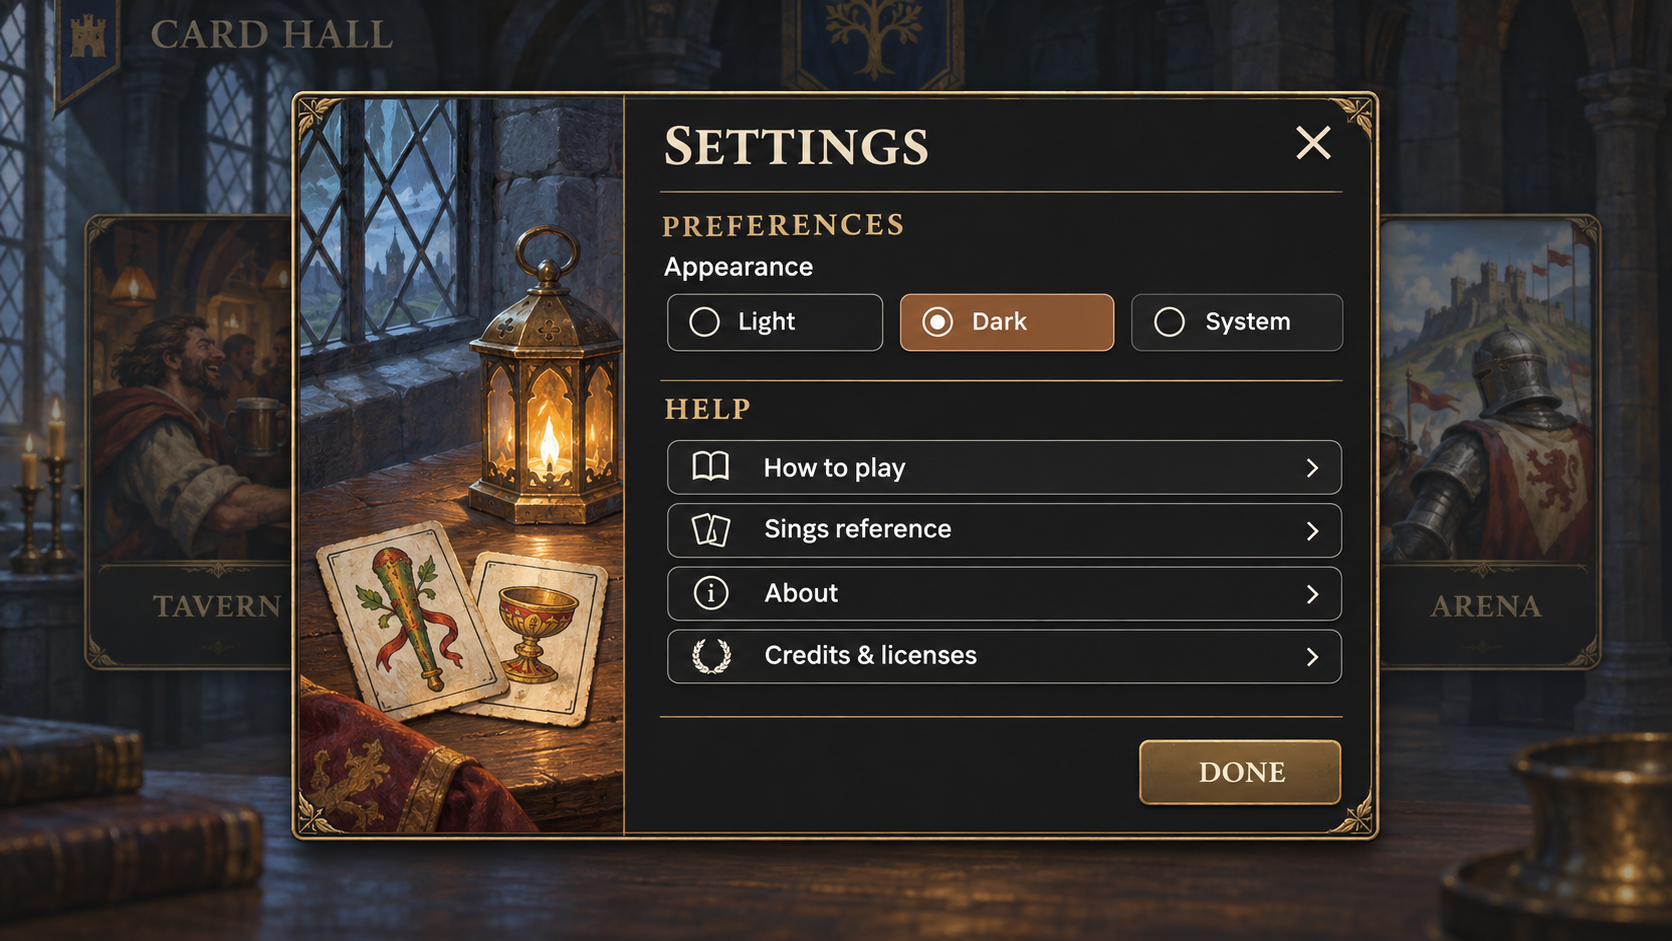
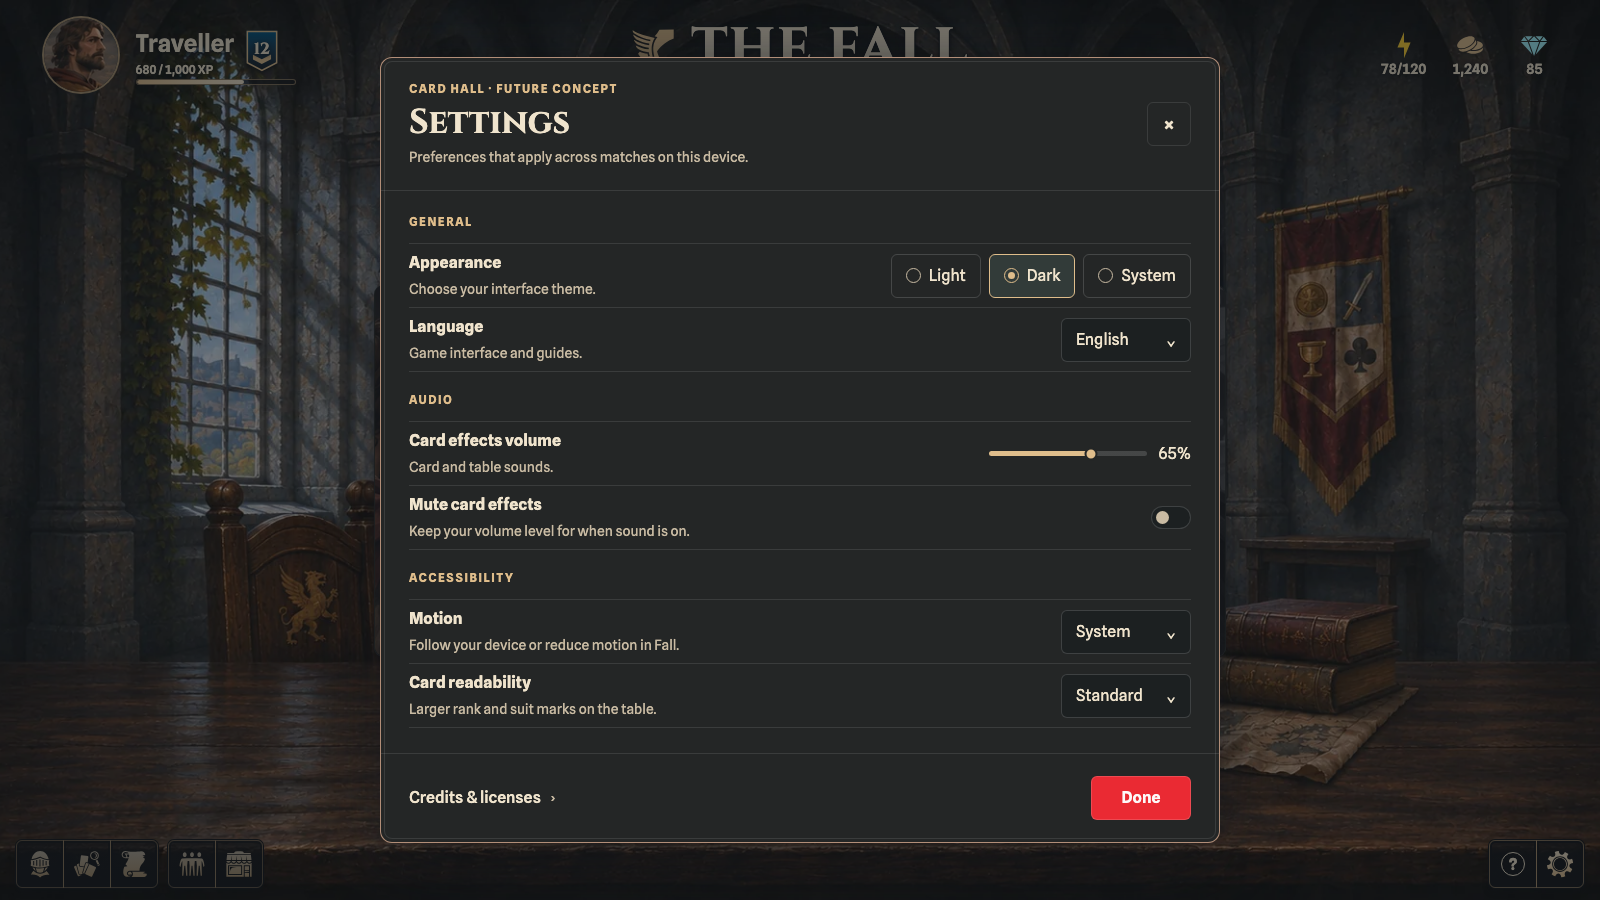
[GHI#104] Rebuild settings studies over the existing Card Hall

diff --git a/docs/design/settings/README.md b/docs/design/settings/README.md
@@ -1,51 +1,63 @@
 # Card Hall Settings
 
-Design exploration for [issue #104](https://github.com/Donkijote/fall/issues/104). The next pass can implement and test the selected design.
+Design draft for [issue #104](https://github.com/Donkijote/fall/issues/104). Settings owns persistent player preferences. Help owns rules and lookups.
 
-## Reference study
+## Mockups
 
-Reviewed the 15 stills and sampled the 7.65-second Frostpunk transition at four frames per second. The source captures live in the local `inspirations/settings` folder. Motion observations apply to the Frostpunk clip.
+All three images were captured at 1600 × 900 over the existing Card Hall on port 3000. The study panels were composed in the browser for these captures. The Hall painting, activity cards, HUD, emblem, and typography come from the running project. Settings adds a scrim over the Hall, while Help leaves the Hall unobscured. The original artwork and app code are intact.
 
-| Game | Observed layout and interaction cues | Implication for Fall |
+| Study | What it shows |
+| --- | --- |
+| [Simplified Settings](settings-simple.png) | The recommended #104 release layout. One Appearance control with immediate persistence, a small Credits & licenses link, and Done. |
+| [Detailed Settings](settings-detailed.png) | The same modal after enough preferences exist to justify General, Audio, and Accessibility sections. Controls and values in this image illustrate future states. |
+| [Hub Help](hub-help.png) | A Help entry next to the gear, in the slot currently occupied by the disabled Messages shortcut. The open panel links to the rules and Sings reference. |
+
+## Game reference study
+
+Reviewed the 15 stills and sampled the 7.65-second Frostpunk clip at four frames per second from the local `inspirations/settings` folder. The stills show layout and control states. The clip shows the transition behavior.
+
+| Reference | What the capture shows | Decision for Fall |
 | --- | --- | --- |
-| Anno 1800 | A full-screen Options surface layers dense, often two-column control grids over harbor artwork. Tabs organize gameplay, graphics, audio and controls. Bright value fields separate editable values from their labels. | Borrow alignment and strong label/value contrast. Two columns and category tabs would make a single preference harder to find. |
-| Armello | Controller bindings appear in two columns over a dimmed game board, with Back and Apply Changes anchored to opposing corners. | Keep a return action in a stable position. A staged apply flow makes sense for batches of bindings. Appearance can save immediately. |
-| Frostpunk | A compact left-hand settings block with horizontal tabs shares the screen with large character art. The clip shows the central menu replaced by the left settings block while the illustrated background pans and snow continues, then the composition reverses on Back. | Keep the scene continuous while changing UI layers. A stationary Hall and short dialog entrance provide the same sense of place with much less visual movement. |
-| Gwent | An opaque framed surface sits over a darkened scene. A left rail highlights the active category in gold and includes Credits and Privacy Policy. The right side uses aligned rows and controls, and the bottom holds exit and settings actions. | Use warm framed surfaces and a distinct selected state. Move to a navigation rail only when several meaningful categories exist. |
-| Legends of Runeterra mobile | Landscape options overlay the recognizable lobby. A vertical rail changes the content pane and a persistent footer holds support and Done. Audio uses sliders, while sparse pages leave much of the pane empty. | Keep the lobby visible and the exit stable. Use a grouped list while the settings set is small. |
+| **Anno 1800** | The harbor is visible behind a full-screen Options surface. Audio, controls, gameplay and graphics divide dense forms into horizontal tabs. Light value fields give controls a clear edge against darker rows. | Borrow aligned rows and visible inputs for the expanded design. Keep a single-column modal for the current settings count. |
+| **Armello** | Controller bindings use two columns over a dim board. Back and Apply Changes anchor opposite corners. The content is specific to the input device. | Preserve a stable exit position. Consider device-specific bindings only after Fall has meaningful controller actions to remap. Theme changes can take effect immediately. |
+| **Frostpunk** | The centered main menu gives way to a left-aligned settings panel, with a horizontal tab strip and large character art on the right. The scene pans under the UI and snow continues across both states. Back reverses the move. | Preserve the same scene across entry and exit. Keep the Hall stationary and animate the scrim and panel briefly so Settings feels connected to the gear. |
+| **Gwent** | An opaque, framed surface over a dim background uses a vertical rail and a strong gold selected state. Credits and Privacy Policy share the navigation rail with options. | Borrow the clear selection marker and framed surface. Keep Credits accessible from a small footer link. Add a category rail only when multiple groups are long enough to need one. |
+| **Legends of Runeterra mobile** | The landscape options overlay leaves the lobby recognizable. A vertical rail switches sparse panels. A persistent footer separates support and sign-out from Done. | Keep the lobby recognizable and Done in a predictable location. Use a separate Help entry for player guidance and keep account actions with identity. |
 
-## Two concepts
+## Where each item belongs
 
-Both were generated with the built-in ImageGen tool. The [generation prompts](prompts.json) describe the visual references and intended labels. These are design masters. Live artwork and controls should remain separate.
+| Item | Destination | Rationale and behavior |
+| --- | --- | --- |
+| **Appearance** | **Settings** | A persistent, device-local preference. Offer Light, Dark and System. The provider already supports System and defaults to it. Use the saved choice for the selected marker and preserve the existing `fall-theme` key. Dark is the mockup presentation. A dark-only product direction would require changing #104’s appearance requirement and evaluating readability for players who use light mode. |
+| **How to play** | **Hub → Help**, with a contextual shortcut in the Tavern play picker | Learning the rules is a task players do before a match. Keep the existing `/rules` route and make it accessible even before the player starts a match. |
+| **Sings reference** | **Hub → Help**, plus the existing in-match lookup | This is a lookup players may need both before and during play. Keep the searchable `/sings` route in Help and retain the existing View sings modal during a match. Keep the rules page’s explanation of Sings for players learning the game. |
+| **Credits & licenses** | **Settings footer → Credits & licenses** | About is app-wide information. One low-emphasis link gives it a predictable home without adding a category. Preserve the icon authors, recolor note, source and CC BY 3.0 link. The credits view returns to the Settings footer link. |
+| **Animation playground** | **Development-only Settings footer action** | Preserve #104’s existing access and development gate. A separate dev launcher makes sense if more tools arrive. The production footer in the mockups shows the player-facing actions. |
+| **Display name, avatar, sign-in and account data** | **Player identity** | Personal and account details belong with the player badge once editable. If cloud sync becomes a feature, place sync status and data management here. |
+| **Match format, opponents, bots and difficulty** | **Tavern play picker** | These choices describe the next match. A future remember-last-selection preference could be automatic, with the actual match choices still shown at setup. |
 
-- [Simplified](settings-simple.png) uses one centered column, a single brass frame, and flat grouped rows. This is the implementation recommendation. It fits the current scope and can use the existing Hall and dialog components.
-- [Detailed](settings-detailed.png) uses a wider split panel with illustrated cards and a lantern. It explores how far Settings can carry the login art direction. It renders About as an extra interactive row. Use About as a section heading above Credits & licenses, as in the simplified concept. Both images are dark-theme landscape studies. The background HUD and artwork are illustrative.
+Move both guide links when the new Help entry ships, in the same change. Issue #104 requires the Hub to retain access to both destinations. If the issue owner interprets that as requiring access from inside Settings specifically, record the placement change on the issue before implementation. If the project later activates Messages, allocate its own dock slot at widths that fit and use a labeled Utilities overflow in compact layouts if needed.
 
-## Settings and adjacent destinations
+## Candidate preferences
 
-| Item | Placement and behavior |
-| --- | --- |
-| Appearance | **Preferences.** Keep persisted appearance switching for #104. The current button flips the resolved theme, while the app provider already supports Light, Dark and System and defaults to System. Use the stored preference to mark the selected option, with System resolving against the device. Keep the existing storage key. Dark can lead the artwork and mockups. Dark-only would remove a supported preference and would need a separate product decision and an assessment of the light theme’s accessibility value. |
-| How to play and Sings reference | **Help shortcuts for #104.** Keep both existing routes reachable from the Hub Settings dialog. Longer term, put both under a visible Hub Help entry and surface How to play near first play. Keep the in-match Sings lookup for quick reference. Once the new Help entry is established, the shortcuts can move out of Settings. |
-| Credits & licenses | **About.** Open a dedicated, scrollable view with a Back action to Settings. Carry the existing Game-icons.net author names, recolor note, source link and CC BY 3.0 license into it. Group future attributions by source. |
-| Animation playground | **Developer tools** after About, gated by the existing development condition. Keep the route in #104. A future dev tools launcher can own it if developer tools grow. |
-| Profile and account | Put display name, avatar and account actions under the Hub player identity when those features are available. Keep per-match choices such as formats and bots in the play flow. |
+| Priority | Preference | Design and dependency |
+| --- | --- | --- |
+| **#104** | Appearance | Show Light, Dark and System as a single choice group. Apply immediately and keep the same storage key. |
+| **Next** | Card sound volume and mute | The production game already plays a sound when a card is played. The deal sound exists in the development playground. Start with one card-effects channel and remember the last nonzero level independently of mute. Add a separate music control if music ships. |
+| **Next** | Reduced motion | Honor the device preference. A future System / Reduced control could suppress nonessential Hall, login and table effects. Keep essential card movement outcomes and turn cues legible when decorative motion is reduced. |
+| **Next, after table testing** | Card readability | Try larger rank and suit marks first. Evaluate high-contrast selection and turn indicators with combined shape, text and color. Test in the light theme and on a short landscape phone before committing to a toggle. |
+| **When localized** | Language | Offer System plus supported languages by their own names, such as English and Español if both ship. Translate rules, Sings, and game terminology together, with a consistent glossary for Caída and Cantos. |
+| **When teaching features ship** | Hints and confirmation | Let players choose contextual hints or confirm consequential actions if testing finds accidental plays. Put Replay tutorial in Help as an action. Keep turn legality and scoring rules fixed for everyone in a match. |
+| **When input support grows** | Keyboard shortcuts and controller bindings | Put the shortcut reference in Help. Add remapping to Settings after there are enough supported actions and a way to detect conflicts and restore defaults. |
+| **When effects warrant it** | Performance | Consider reduced scene effects or lower render quality if measurements show the Hall or table effects cause slowdowns. Keep adaptive defaults and avoid a desktop-style resolution menu for a responsive web game. |
+| **When online features ship** | Notifications and social visibility | Allow opt-in by notification type once those events exist. Keep profile visibility, account privacy and cloud data controls with the player account. |
 
-## Future preferences
+Expose only implemented controls. The detailed study shows a plausible first expansion. Keep later ideas in the backlog until the corresponding features exist or user testing establishes a need.
 
-| Candidate | When it earns a row |
-| --- | --- |
-| Language | Add once game UI, rules, and Sings reference are localized together. Start with English and Spanish as candidates, use self-named languages, and persist the player's choice. |
-| Reduced motion | Honor the OS setting first. Consider an in-game System / Reduced choice once motion spans enough of the app to warrant an override. Keep the selected state and focus cues visible without animation. |
-| Audio | Add mute and master volume when the game actually ships audio. Split music and effects when both exist and players benefit from independent control. |
-| Card and text readability | Evaluate larger table labels, card rank/suit legibility and higher-contrast indicators after testing gameplay across themes and screen sizes. Prefer cues that combine shapes or text with color. |
-| Gameplay assistance | Consider replaying onboarding, optional contextual hints and confirmation for consequential moves when those features exist. Keep rules and match-format changes in the relevant play flow. |
-| Notifications and privacy | Add notification controls after introducing notifications. Place account privacy or data controls with the account that owns them when the relevant features exist. |
+## Layout, motion, and acceptance
 
-## Responsive and interaction specification
-
-- Use one modal entered from the existing Hub gear. Center it on wide screens. In portrait use an inset near-full-width sheet with the same group order. For short landscape use a safe-area-constrained height, a scrollable body, and a visible header and exit action. Give interactive rows and close controls at least 44px hit areas. Let the appearance choices wrap or stack on narrow widths and allow labels to grow.
-- Use Cinzel for the display title, Spline Sans for functional text, shadcn semantic surfaces and foregrounds for both themes, and the shared gold trim sparingly. A filled marker distinguishes the selected appearance option independently of its color.
-- Give appearance changes immediate effect and persistence. Done, the close control and Escape dismiss the modal. Keep the existing backdrop dismissal behavior. Trap keyboard focus while open and restore it to the gear on dismissal. In the Credits subview, Back restores focus to the Credits row. A guide route should focus its destination and offer a return to the Hub.
-- Use GSAP for an approximately 180ms scrim fade and a small panel lift, with a shorter exit. Keep the background stationary. Respect reduced motion, clean up GSAP contexts, and disable inherited primitive transitions. Treat art as decorative and keep it out of the accessibility tree.
-- Implementation verification should cover keyboard navigation, dismissal and focus restoration, touch, theme persistence and System behavior, readable contrast, production gating, attribution links, long labels, and scroll access at phone and short-landscape sizes. Reuse port 3000 for visual checks.
+- Use a centered dialog over the existing Hall on desktop. On portrait use a near-full-width inset sheet. In short landscape constrain the height to the safe area, scroll the content, and keep the close action visible. Use 44px minimum targets and let controls stack when copy wraps.
+- Reuse Card Hall’s Cinzel and Spline Sans typography, the shared gold trim, and semantic surfaces, foregrounds, and focus rings in both themes. Mark the selected appearance with a filled radio indicator as well as color.
+- Use the existing dialog primitives for modal focus and dismissal. Restore focus to the gear after Done, Close, Escape, or backdrop dismissal. Help opens from its own trigger, restores focus on dismissal, and becomes an inset sheet when the anchored panel will not fit. Focus the guide heading on navigation and give direct visits an explicit return to the Hall.
+- Use GSAP for a short scrim fade and small panel lift, around 160–180ms. Reduced motion applies the final states immediately. Keep underlying Hall motion stationary while Settings is open, disable inherited primitive transitions, and clean up the GSAP context. Treat the Hall art as decorative.
+- During implementation, verify both themes and System persistence, keyboard focus and dismissal, the Help and guide return paths, in-match Sings access, attributions, development-only gating, and scroll reachability at 320px portrait and 568×320 landscape. The images are desktop design studies.
